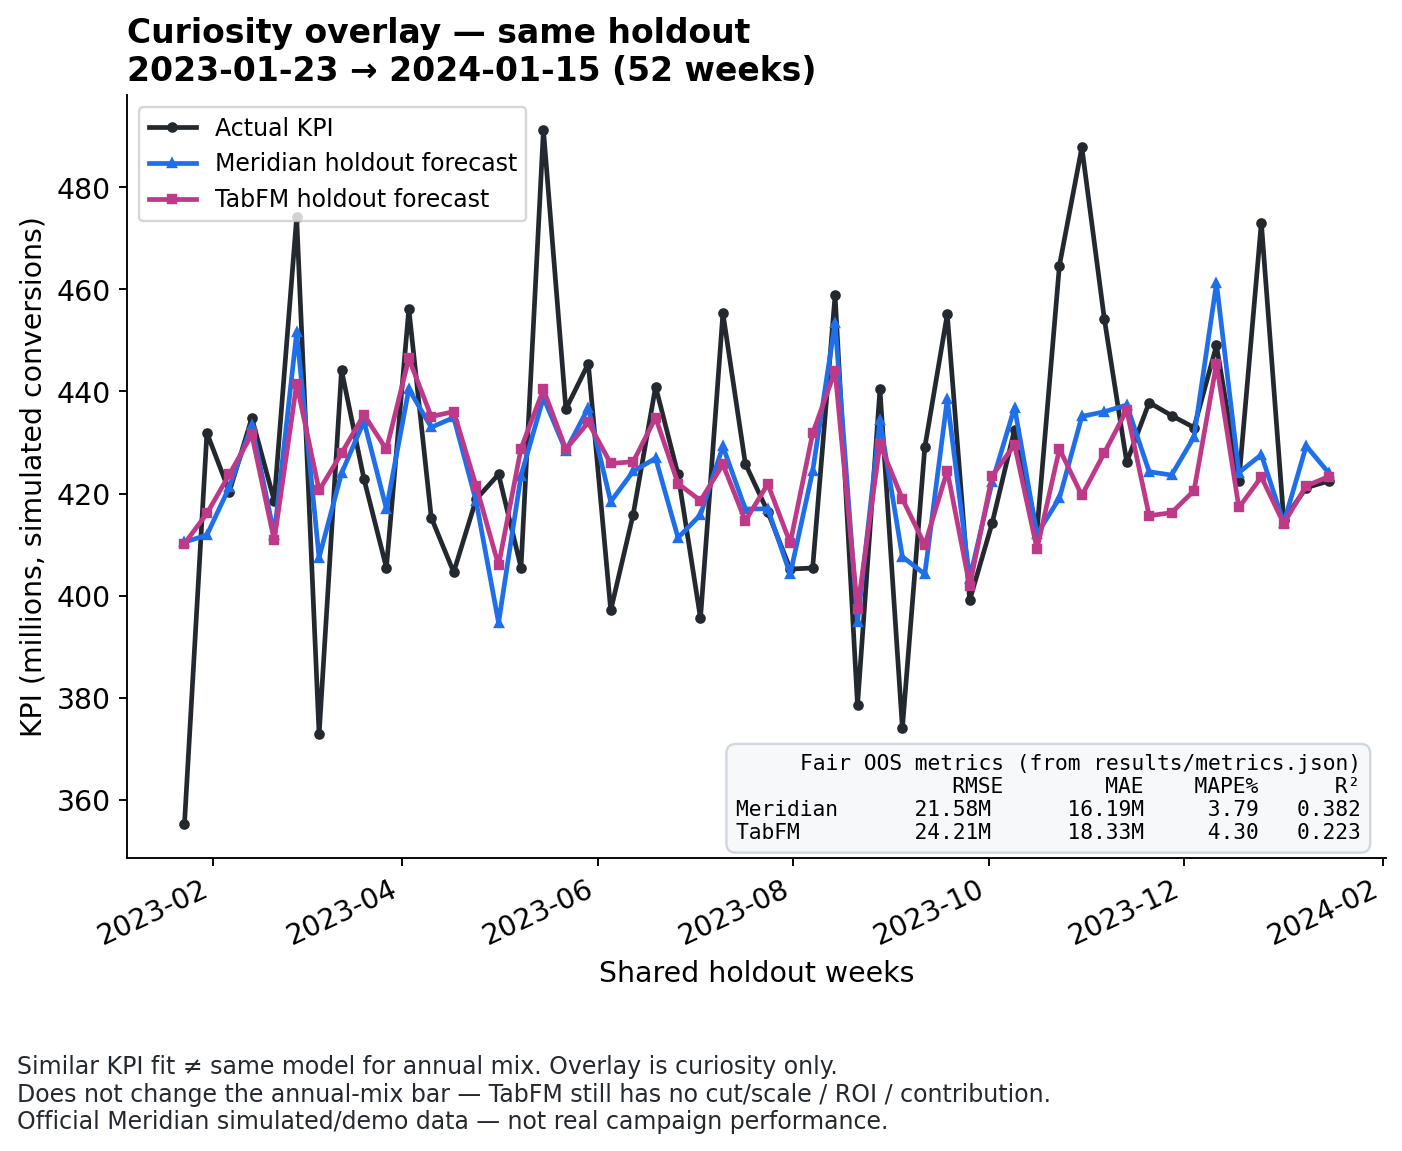
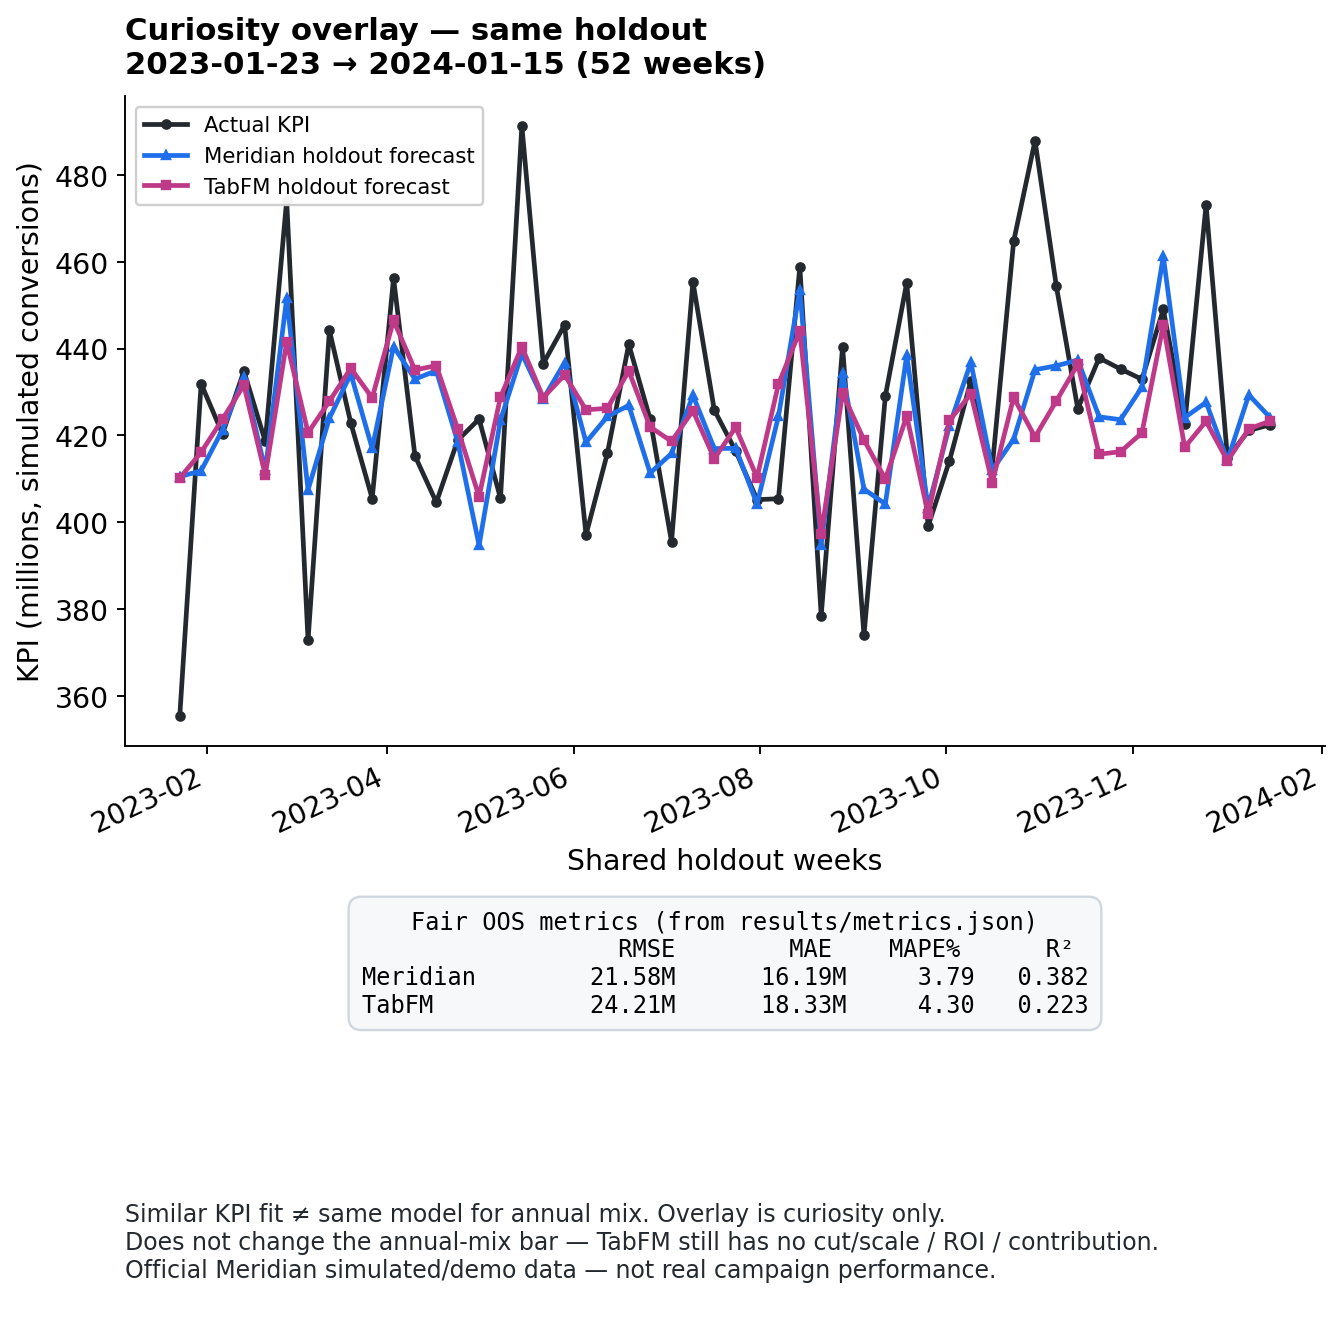
Fix overlapping text on planner example images
Reserve dedicated GridSpec rows for legends and captions so TabFM,
Meridian, and curiosity-overlay text no longer collide with axes or
series. Shorten TabFM caption to “KPI forecast only — planner stops
here.” and regenerate PNGs.

diff --git a/scripts/generate_planner_examples.py b/scripts/generate_planner_examples.py
@@ -119,9 +119,7 @@ def _build_story(data, contrib: dict[str, float], roi: dict[str, float], cut_pct
             f"lowest ROI (~{roi[cut_ch]:.0f}) vs highest (~{roi[scale_ch]:.0f}). "
             f"That’s an annual-mix call."
         ),
-        "caption_tabfm": (
-            "Same data: KPI forecast only. No contribution, ROI, or cut/scale — planner stops here."
-        ),
+        "caption_tabfm": "KPI forecast only — planner stops here.",
     }
     return story
 
@@ -135,46 +133,57 @@ def plot_meridian_story(story: dict) -> None:
     before = np.array([story["spend_before"][c] for c in channels], dtype=float)
     after = np.array([story["spend_after"][c] for c in channels], dtype=float)
 
-    fig = plt.figure(figsize=(8.2, 11.0))
-    gs = GridSpec(3, 1, figure=fig, height_ratios=[1.0, 1.0, 1.15], hspace=0.45)
+    fig = plt.figure(figsize=(8.2, 13.0))
+    # Charts + legend strip + caption — caption never shares space with x-ticks
+    gs = GridSpec(5, 1, figure=fig, height_ratios=[1.0, 1.0, 1.15, 0.32, 0.7], hspace=0.45)
 
     fig.suptitle(
         "Planner story — Meridian on simulated data\n"
         "Annual mix: what to cut vs scale",
-        fontsize=16,
+        fontsize=15,
         fontweight="bold",
         y=0.98,
     )
 
-    # 1) Contribution
     ax0 = fig.add_subplot(gs[0])
     colors = ["#cf222e" if c == cut_ch else "#2da44e" if c == scale_ch else "#6e7781" for c in channels]
     ax0.barh(channels[::-1], (contrib / 1e9)[::-1], color=colors[::-1])
     ax0.set_xlabel("Channel contribution (billions, simulated)")
-    ax0.set_title("1. What drove the outcome?  (Meridian incremental contribution)", loc="left")
+    ax0.set_title("1. What drove the outcome?  (Meridian incremental contribution)", loc="left", pad=8)
 
-    # 2) ROI
     ax1 = fig.add_subplot(gs[1])
     ax1.bar(channels, roi_vals, color=colors)
     ax1.set_ylabel("ROI (simulated)")
-    ax1.set_title("2. Which channels are efficient?  (Meridian ROI)", loc="left")
+    ax1.set_title("2. Which channels are efficient?  (Meridian ROI)", loc="left", pad=8)
     ax1.tick_params(axis="x", rotation=20)
 
-    # 3) Cut / scale recommendation
     ax2 = fig.add_subplot(gs[2])
     x = np.arange(len(channels))
     w = 0.36
-    ax2.bar(x - w / 2, before / 1e6, width=w, label="Before", color="#8c959f")
-    ax2.bar(x + w / 2, after / 1e6, width=w, label="After scenario", color="#1f6feb")
+    bars_before = ax2.bar(x - w / 2, before / 1e6, width=w, label="Before", color="#8c959f")
+    bars_after = ax2.bar(x + w / 2, after / 1e6, width=w, label="After scenario", color="#1f6feb")
     ax2.set_xticks(x)
     ax2.set_xticklabels(channels, rotation=20)
     ax2.set_ylabel("Spend (millions, simulated)")
     ax2.set_title(
         f"3. Sample annual mix rec: cut {cut_ch} {story['cut_pct']:.0%} → scale {scale_ch}",
         loc="left",
+        pad=8,
     )
-    ax2.legend(fontsize=10)
 
+    ax_leg = fig.add_subplot(gs[3])
+    ax_leg.axis("off")
+    ax_leg.legend(
+        [bars_before, bars_after],
+        ["Before", "After scenario"],
+        loc="center",
+        ncol=2,
+        fontsize=10,
+        frameon=False,
+    )
+
+    ax_cap = fig.add_subplot(gs[4])
+    ax_cap.axis("off")
     move_m = story["move_spend"] / 1e6
     delta_b = story["delta_incremental"] / 1e9
     caption = (
@@ -185,92 +194,114 @@ def plot_meridian_story(story: dict) -> None:
         f"{'+' if delta_b >= 0 else ''}{delta_b:.2f}B via ROI×spend scenario — not full optimizer.)\n"
         f"{DISCLAIMER}. {MCMC_NOTE}."
     )
-    fig.text(0.02, 0.01, caption, fontsize=10, color="#24292f", va="bottom")
-    fig.tight_layout(rect=[0, 0.12, 1, 0.95])
+    ax_cap.text(0.0, 0.9, caption, fontsize=10, color="#24292f", va="top", ha="left", wrap=True)
+    fig.subplots_adjust(top=0.92, bottom=0.04, left=0.12, right=0.96)
     _save(fig, "01_meridian_annual_mix_story.png")
 
 
 def plot_tabfm_story(data, y_pred: np.ndarray) -> None:
-    """KPI forecast + explicit stops-here panel — one story image."""
+    """KPI forecast + explicit stops-here panel — clear margins, no overlapping labels."""
     y_true = data.y_test.to_numpy(dtype=float)
     n = min(len(y_true), len(y_pred), 52)
 
-    fig = plt.figure(figsize=(8.2, 9.0))
-    gs = GridSpec(2, 1, figure=fig, height_ratios=[1.35, 1.0], hspace=0.35)
+    fig = plt.figure(figsize=(8.2, 10.0))
+    # Chart | legend strip | stop box | caption — each owns its row (no shared space)
+    gs = GridSpec(4, 1, figure=fig, height_ratios=[3.0, 0.38, 2.4, 0.55], hspace=0.28)
+
     fig.suptitle(
         "Same planner question — TabFM on the same simulated data",
-        fontsize=15,
+        fontsize=14,
         fontweight="bold",
-        y=0.98,
+        y=0.985,
     )
 
     ax0 = fig.add_subplot(gs[0])
-    ax0.plot(range(n), y_true[:n] / 1e6, marker="o", ms=4, label="Actual holdout KPI", color="#24292f")
-    ax0.plot(range(n), y_pred[:n] / 1e6, marker="s", ms=4, label="TabFM predicted KPI", color="#bf3989")
+    (ln0,) = ax0.plot(
+        range(n), y_true[:n] / 1e6, marker="o", ms=3.5, label="Actual holdout KPI", color="#24292f"
+    )
+    (ln1,) = ax0.plot(
+        range(n), y_pred[:n] / 1e6, marker="s", ms=3.5, label="TabFM predicted KPI", color="#bf3989"
+    )
     ax0.set_xlabel("Holdout week")
     ax0.set_ylabel("KPI (millions, simulated)")
-    ax0.set_title("Same data: KPI forecast only", loc="left")
-    ax0.legend(fontsize=10)
+    ax0.set_title("Holdout KPI: actual vs TabFM", loc="left", pad=10)
+    ax0.set_ylim(
+        min(y_true[:n].min(), y_pred[:n].min()) / 1e6 * 0.98,
+        max(y_true[:n].max(), y_pred[:n].max()) / 1e6 * 1.04,
+    )
 
-    ax1 = fig.add_subplot(gs[1])
+    ax_leg = fig.add_subplot(gs[1])
+    ax_leg.axis("off")
+    ax_leg.legend(
+        [ln0, ln1],
+        ["Actual holdout KPI", "TabFM predicted KPI"],
+        loc="center",
+        ncol=2,
+        fontsize=10,
+        frameon=False,
+    )
+
+    ax1 = fig.add_subplot(gs[2])
     ax1.set_xlim(0, 10)
     ax1.set_ylim(0, 10)
     ax1.axis("off")
-    ax1.add_patch(plt.Rectangle((0.3, 0.5), 9.4, 9.0, fill=True, color="#fff5f5", ec="#cf222e", lw=2.5))
-    ax1.text(5, 8.2, "Planner stops here", ha="center", fontsize=20, fontweight="bold", color="#cf222e")
+    ax1.add_patch(
+        plt.Rectangle(
+            (0.35, 0.4), 9.3, 9.2, fill=True, color="#fff5f5", ec="#cf222e", lw=2.5, clip_on=False
+        )
+    )
+    ax1.text(
+        5, 8.2, "Planner stops here", ha="center", va="center", fontsize=17, fontweight="bold", color="#cf222e"
+    )
     ax1.text(
         5,
         5.5,
-        "No contribution\n"
-        "No ROI\n"
-        "No cut / scale\n"
-        "No annual mix or strategy plan",
+        "No contribution   ·   No ROI\nNo cut / scale   ·   No annual mix plan",
         ha="center",
-        fontsize=13,
+        va="center",
+        fontsize=12,
         color="#24292f",
+        linespacing=1.75,
     )
     ax1.text(
         5,
-        1.8,
-        "Needs Meridian (or another MMM) for annual\nmarketing budget & strategy recommendations.",
+        2.0,
+        "Needs Meridian (or another MMM) for annual\nbudget & strategy recommendations.",
         ha="center",
+        va="center",
         fontsize=11,
         color="#57606a",
+        linespacing=1.45,
     )
 
-    fig.text(
-        0.02,
-        0.01,
-        f"Same data: KPI forecast only. No contribution, ROI, or cut/scale — planner stops here.\n"
-        f"{DISCLAIMER}.",
-        fontsize=10,
+    ax_cap = fig.add_subplot(gs[3])
+    ax_cap.axis("off")
+    ax_cap.text(
+        0.0,
+        0.75,
+        f"KPI forecast only — planner stops here.\n{DISCLAIMER}.",
+        fontsize=11,
         color="#24292f",
-        va="bottom",
+        va="top",
+        ha="left",
     )
-    fig.tight_layout(rect=[0, 0.08, 1, 0.95])
+    fig.subplots_adjust(top=0.93, bottom=0.04, left=0.12, right=0.96)
     _save(fig, "02_tabfm_kpi_stops_here.png")
 
 
 def plot_story_strip() -> None:
-    """Optional third image: two-panel strip for a quick scroll."""
+    """Composite strip: stack Meridian + TabFM panels (source images already captioned)."""
     p1, p2 = OUT / "01_meridian_annual_mix_story.png", OUT / "02_tabfm_kpi_stops_here.png"
     if not (p1.exists() and p2.exists()):
         return
-    fig, axes = plt.subplots(2, 1, figsize=(8.2, 14.5))
-    for ax, path, title in zip(
-        axes,
-        (p1, p2),
-        (
-            "Cut Channel3 15% / scale Channel2 — lowest ROI (~53) vs highest (~104). That’s an annual-mix call.",
-            "Same data: KPI forecast only. No contribution, ROI, or cut/scale — planner stops here.",
-        ),
-    ):
+    # Avoid stacking duplicate titles/captions on top of the source PNGs —
+    # those already include story text with clear margins.
+    fig, axes = plt.subplots(2, 1, figsize=(8.2, 16.0))
+    for ax, path in zip(axes, (p1, p2)):
         ax.imshow(plt.imread(path))
-        ax.set_title(title, loc="left", fontsize=13)
         ax.axis("off")
-    fig.suptitle("One planner story — Meridian vs TabFM", fontsize=15, fontweight="bold")
-    fig.text(0.02, 0.005, DISCLAIMER, fontsize=9, color="#444")
-    fig.tight_layout(rect=[0, 0.02, 1, 0.97])
+    fig.suptitle("One planner story — Meridian vs TabFM", fontsize=14, fontweight="bold", y=0.995)
+    fig.subplots_adjust(top=0.97, bottom=0.01, left=0.02, right=0.98, hspace=0.06)
     _save(fig, "00_one_planner_story.png")
 
 
@@ -279,13 +310,23 @@ def main() -> int:
     data = load_mmm_dataset(dataset="national", max_context_rows=100)
     logger.info("Frozen slice: %s | channels=%s", data.source_path, data.channel_keys)
 
-    from mmm_compare.tabfm_runner import run_tabfm
-
-    tabfm = run_tabfm(data, dry_run=False)
-    plot_tabfm_story(data, tabfm.y_pred_test)
-
     saved = OUT / "story_numbers.json"
+    metrics_path = ROOT / "results" / "metrics.json"
     use_saved = "--from-saved" in sys.argv and saved.exists()
+
+    if use_saved and metrics_path.exists():
+        y_pred = np.asarray(
+            json.loads(metrics_path.read_text())["models"]["tabfm"]["y_pred_test"],
+            dtype=float,
+        )
+        logger.info("TabFM preds from %s (no TabFM reload)", metrics_path)
+    else:
+        from mmm_compare.tabfm_runner import run_tabfm
+
+        tabfm = run_tabfm(data, dry_run=False)
+        y_pred = tabfm.y_pred_test
+    plot_tabfm_story(data, y_pred)
+
     if use_saved:
         prev = json.loads(saved.read_text())
         contrib = prev["story"]["contrib"]

diff --git a/scripts/generate_curiosity_overlay.py b/scripts/generate_curiosity_overlay.py
@@ -15,6 +15,7 @@ import matplotlib.pyplot as plt
 import matplotlib.dates as mdates
 import numpy as np
 import pandas as pd
+from matplotlib.gridspec import GridSpec
 
 ROOT = Path(__file__).resolve().parents[1]
 sys.path.insert(0, str(ROOT))
@@ -62,7 +63,10 @@ def main() -> int:
         }
     )
 
-    fig, ax = plt.subplots(figsize=(8.4, 6.8))
+    fig = plt.figure(figsize=(8.4, 8.2))
+    gs = GridSpec(3, 1, figure=fig, height_ratios=[3.2, 1.0, 0.7], hspace=0.35)
+
+    ax = fig.add_subplot(gs[0])
     ax.plot(dates, y_act / 1e6, color="#24292f", lw=2.0, marker="o", ms=3.5, label="Actual KPI")
     ax.plot(dates, y_mer / 1e6, color="#1f6feb", lw=2.0, marker="^", ms=3.5, label="Meridian holdout forecast")
     ax.plot(dates, y_tab / 1e6, color="#bf3989", lw=2.0, marker="s", ms=3.5, label="TabFM holdout forecast")
@@ -71,44 +75,52 @@ def main() -> int:
     ax.set_title(
         f"Curiosity overlay — same holdout\n{holdout_times[0]} → {holdout_times[-1]} (52 weeks)",
         loc="left",
-        fontsize=14,
+        fontsize=13,
         fontweight="bold",
+        pad=10,
     )
     ax.xaxis.set_major_locator(mdates.MonthLocator(interval=2))
     ax.xaxis.set_major_formatter(mdates.DateFormatter("%Y-%m"))
-    fig.autofmt_xdate(rotation=25, ha="right")
-    ax.legend(loc="upper left", fontsize=10)
+    for label in ax.get_xticklabels():
+        label.set_rotation(25)
+        label.set_ha("right")
+    ax.legend(loc="upper left", fontsize=9, framealpha=0.95)
 
-    # Multi-metric card (not R²-only)
+    # Metrics card in its own panel — never over the series
+    ax_m = fig.add_subplot(gs[1])
+    ax_m.axis("off")
     card = (
         "Fair OOS metrics (from results/metrics.json)\n"
-        f"{'':8} {'RMSE':>10} {'MAE':>10} {'MAPE%':>8} {'R²':>7}\n"
-        f"{'Meridian':8} {mm['rmse']/1e6:10.2f}M {mm['mae']/1e6:10.2f}M {mm['mape_pct']:8.2f} {mm['r2']:7.3f}\n"
-        f"{'TabFM':8} {tm['rmse']/1e6:10.2f}M {tm['mae']/1e6:10.2f}M {tm['mape_pct']:8.2f} {tm['r2']:7.3f}"
+        f"{'':10} {'RMSE':>10} {'MAE':>10} {'MAPE%':>8} {'R²':>7}\n"
+        f"{'Meridian':10} {mm['rmse']/1e6:10.2f}M {mm['mae']/1e6:10.2f}M {mm['mape_pct']:8.2f} {mm['r2']:7.3f}\n"
+        f"{'TabFM':10} {tm['rmse']/1e6:10.2f}M {tm['mae']/1e6:10.2f}M {tm['mape_pct']:8.2f} {tm['r2']:7.3f}"
     )
-    ax.text(
-        0.98,
-        0.02,
+    ax_m.text(
+        0.5,
+        0.5,
         card,
-        transform=ax.transAxes,
-        ha="right",
-        va="bottom",
-        fontsize=9,
+        ha="center",
+        va="center",
+        fontsize=10,
         family="monospace",
-        bbox=dict(boxstyle="round,pad=0.45", facecolor="#f6f8fa", edgecolor="#d0d7de"),
+        bbox=dict(boxstyle="round,pad=0.55", facecolor="#f6f8fa", edgecolor="#d0d7de"),
     )
 
-    fig.text(
-        0.02,
-        0.01,
+    ax_c = fig.add_subplot(gs[2])
+    ax_c.axis("off")
+    ax_c.text(
+        0.0,
+        0.85,
         f"{CAPTION}\n"
         f"Does not change the annual-mix bar — TabFM still has no cut/scale / ROI / contribution.\n"
         f"{DISCLAIMER}.",
         fontsize=10,
         color="#24292f",
-        va="bottom",
+        va="top",
+        ha="left",
     )
-    fig.tight_layout(rect=[0, 0.11, 1, 1])
+
+    fig.subplots_adjust(top=0.92, bottom=0.04, left=0.12, right=0.96)
     OUT.mkdir(parents=True, exist_ok=True)
     path = OUT / "03_curiosity_kpi_overlay.png"
     fig.savefig(path, facecolor="white")

diff --git a/examples/README.md b/examples/README.md
@@ -5,7 +5,7 @@
 | # | File | Caption |
 | --- | --- | --- |
 | 1 | [01_meridian_annual_mix_story.png](01_meridian_annual_mix_story.png) | Cut Channel3 15% / scale Channel2 — lowest ROI (~53) vs highest (~104). That’s an annual-mix call. |
-| 2 | [02_tabfm_kpi_stops_here.png](02_tabfm_kpi_stops_here.png) | Same data: KPI forecast only. No contribution, ROI, or cut/scale — planner stops here. |
+| 2 | [02_tabfm_kpi_stops_here.png](02_tabfm_kpi_stops_here.png) | KPI forecast only — planner stops here. |
 | 3 | [03_curiosity_kpi_overlay.png](03_curiosity_kpi_overlay.png) | Similar KPI fit ≠ same model for annual mix. Overlay is curiosity only. |
 | 4 | [00_one_planner_story.png](00_one_planner_story.png) | Optional side-by-side scroll strip |
 

diff --git a/README.md b/README.md
@@ -12,7 +12,7 @@
 👉 Curiosity only (same holdout KPI overlay): [`examples/03_curiosity_kpi_overlay.png`](examples/03_curiosity_kpi_overlay.png)
 
 On this simulated run: **Cut Channel3 15% / scale Channel2 — lowest ROI (~53) vs highest (~104). That’s an annual-mix call.**  
-**Same data: KPI forecast only. No contribution, ROI, or cut/scale — planner stops here.**
+**KPI forecast only — planner stops here.**
 
 Decisioning checklist: [`docs/decisioning_checklist.md`](docs/decisioning_checklist.md)
 

diff --git a/docs/examples_for_planners.md b/docs/examples_for_planners.md
@@ -37,7 +37,7 @@ This is a **labeled scenario** using Meridian ROI on official demo data — not 
 
 ### TabFM’s example answer (same data)
 
-**Same data: KPI forecast only. No contribution, ROI, or cut/scale — planner stops here.**
+**KPI forecast only — planner stops here.**
 
 TabFM draws a holdout KPI line (actual vs predicted). That is all.
 
